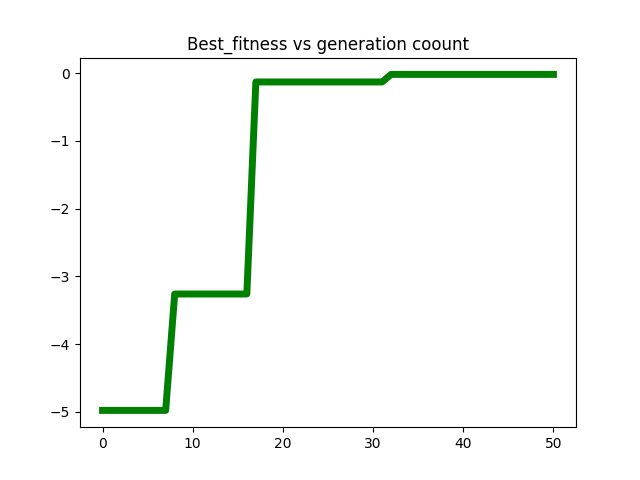
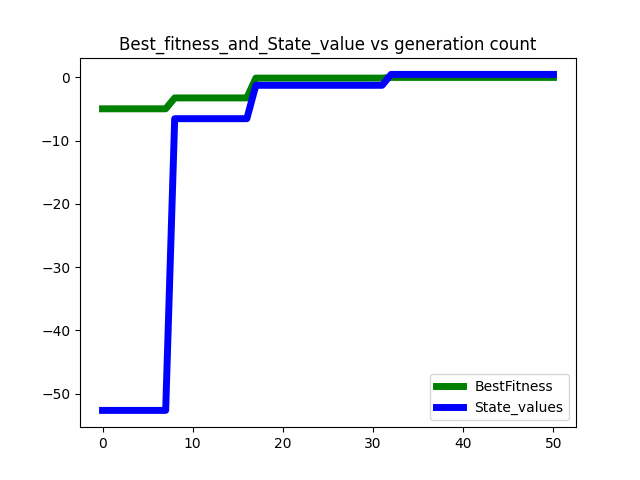
Add files via upload

diff --git a/HW/hw3/EC_hw3_cky.py b/HW/hw3/EC_hw3_cky.py
@@ -67,7 +67,7 @@ class EV1_Config:
 #Simple 1-D fitness function example
 #Now changing to a more complicated function
 def fitnessFunc(x):
-    return -10 - (0.04*x)*(0.04*x) + 10*np.cos(0.04*np.pi*x)
+    return -10 -(0.04*x)*(0.04*x) + 10*np.cos(0.04*np.pi*x)
 
 
 #Find index of worst individual in population
@@ -97,9 +97,12 @@ def printStats(pop,gen):
 # Find Maximum Value and Return it
 def maximum(pop,gen):
     max1=pop[0].fit
+    state_v=pop[0].x
     for p in pop:
-        if p.fit > max1: max1=p.fit
-    return max1
+        if p.fit > max1:
+            max1=p.fit
+            state_v=p.x
+    return max1, state_v
 
 #Find Average Value and Return it
 def avg_value(pop,gen):
@@ -137,7 +140,9 @@ def ev1(cfg):
     # start random number generator         setting prng(pseudo random number generator) as Random()
     prng=Random()
     prng.seed(cfg.randomSeed)
+    maxlist=[]
     best_list=[]
+    state_values=[]
     average_list=[]
     std_list=[]
 
@@ -151,7 +156,9 @@ def ev1(cfg):
         
     #print stats    
     printStats(population,0)
-    best_list.append(maximum(population,0))
+    maxlist = maximum(population,0)
+    best_list.append(maxlist[0])
+    state_values.append(maxlist[1])
     average_list.append(avg_value(population,0))
     std_list.append(std_values(population,0))
     
@@ -177,7 +184,9 @@ def ev1(cfg):
         
         #print stats    
         printStats(population,i+1)
-        best_list.append(maximum(population,i+1))
+        maxlist = maximum(population,i+1)
+        best_list.append(maxlist[0])
+        state_values.append(maxlist[1])
         average_list.append(avg_value(population,i+1))
         std_list.append(std_values(population,i+1))
         
@@ -185,8 +194,10 @@ def ev1(cfg):
 
     #Plot Best fitness and state values  vs. generation count
     gcount = np.arange(0,51,1)
-    plt.plot(gcount, best_list, linewidth=5, color="g")
-    plt.title("Best_fitness vs generation coount")
+    plt.plot(gcount, best_list, linewidth=5, color="g", label = "BestFitness")
+    plt.plot(gcount, state_values, linewidth=5, color="b", label = "State_values")
+    plt.legend()
+    plt.title("Best_fitness_and_State_value vs generation count")
     plt.savefig("Best_fitness_vs_gcount.png")
     plt.show()
 
@@ -251,7 +262,7 @@ if __name__ == '__main__':
 
 # Plot the Fitness function
 x = np.arange(-100,100,1)
-y = -10 - (0.04*x)*(0.04*x) + 10*np.cos(0.04*np.pi*x)
+y = -10 -(0.04*x)*(0.04*x) + 10*np.cos(0.04*np.pi*x)
 plt.plot(x,y , linewidth=5, color="r")
 plt.title("Fitness Function")
 plt.savefig("Fitness_Function.png")
